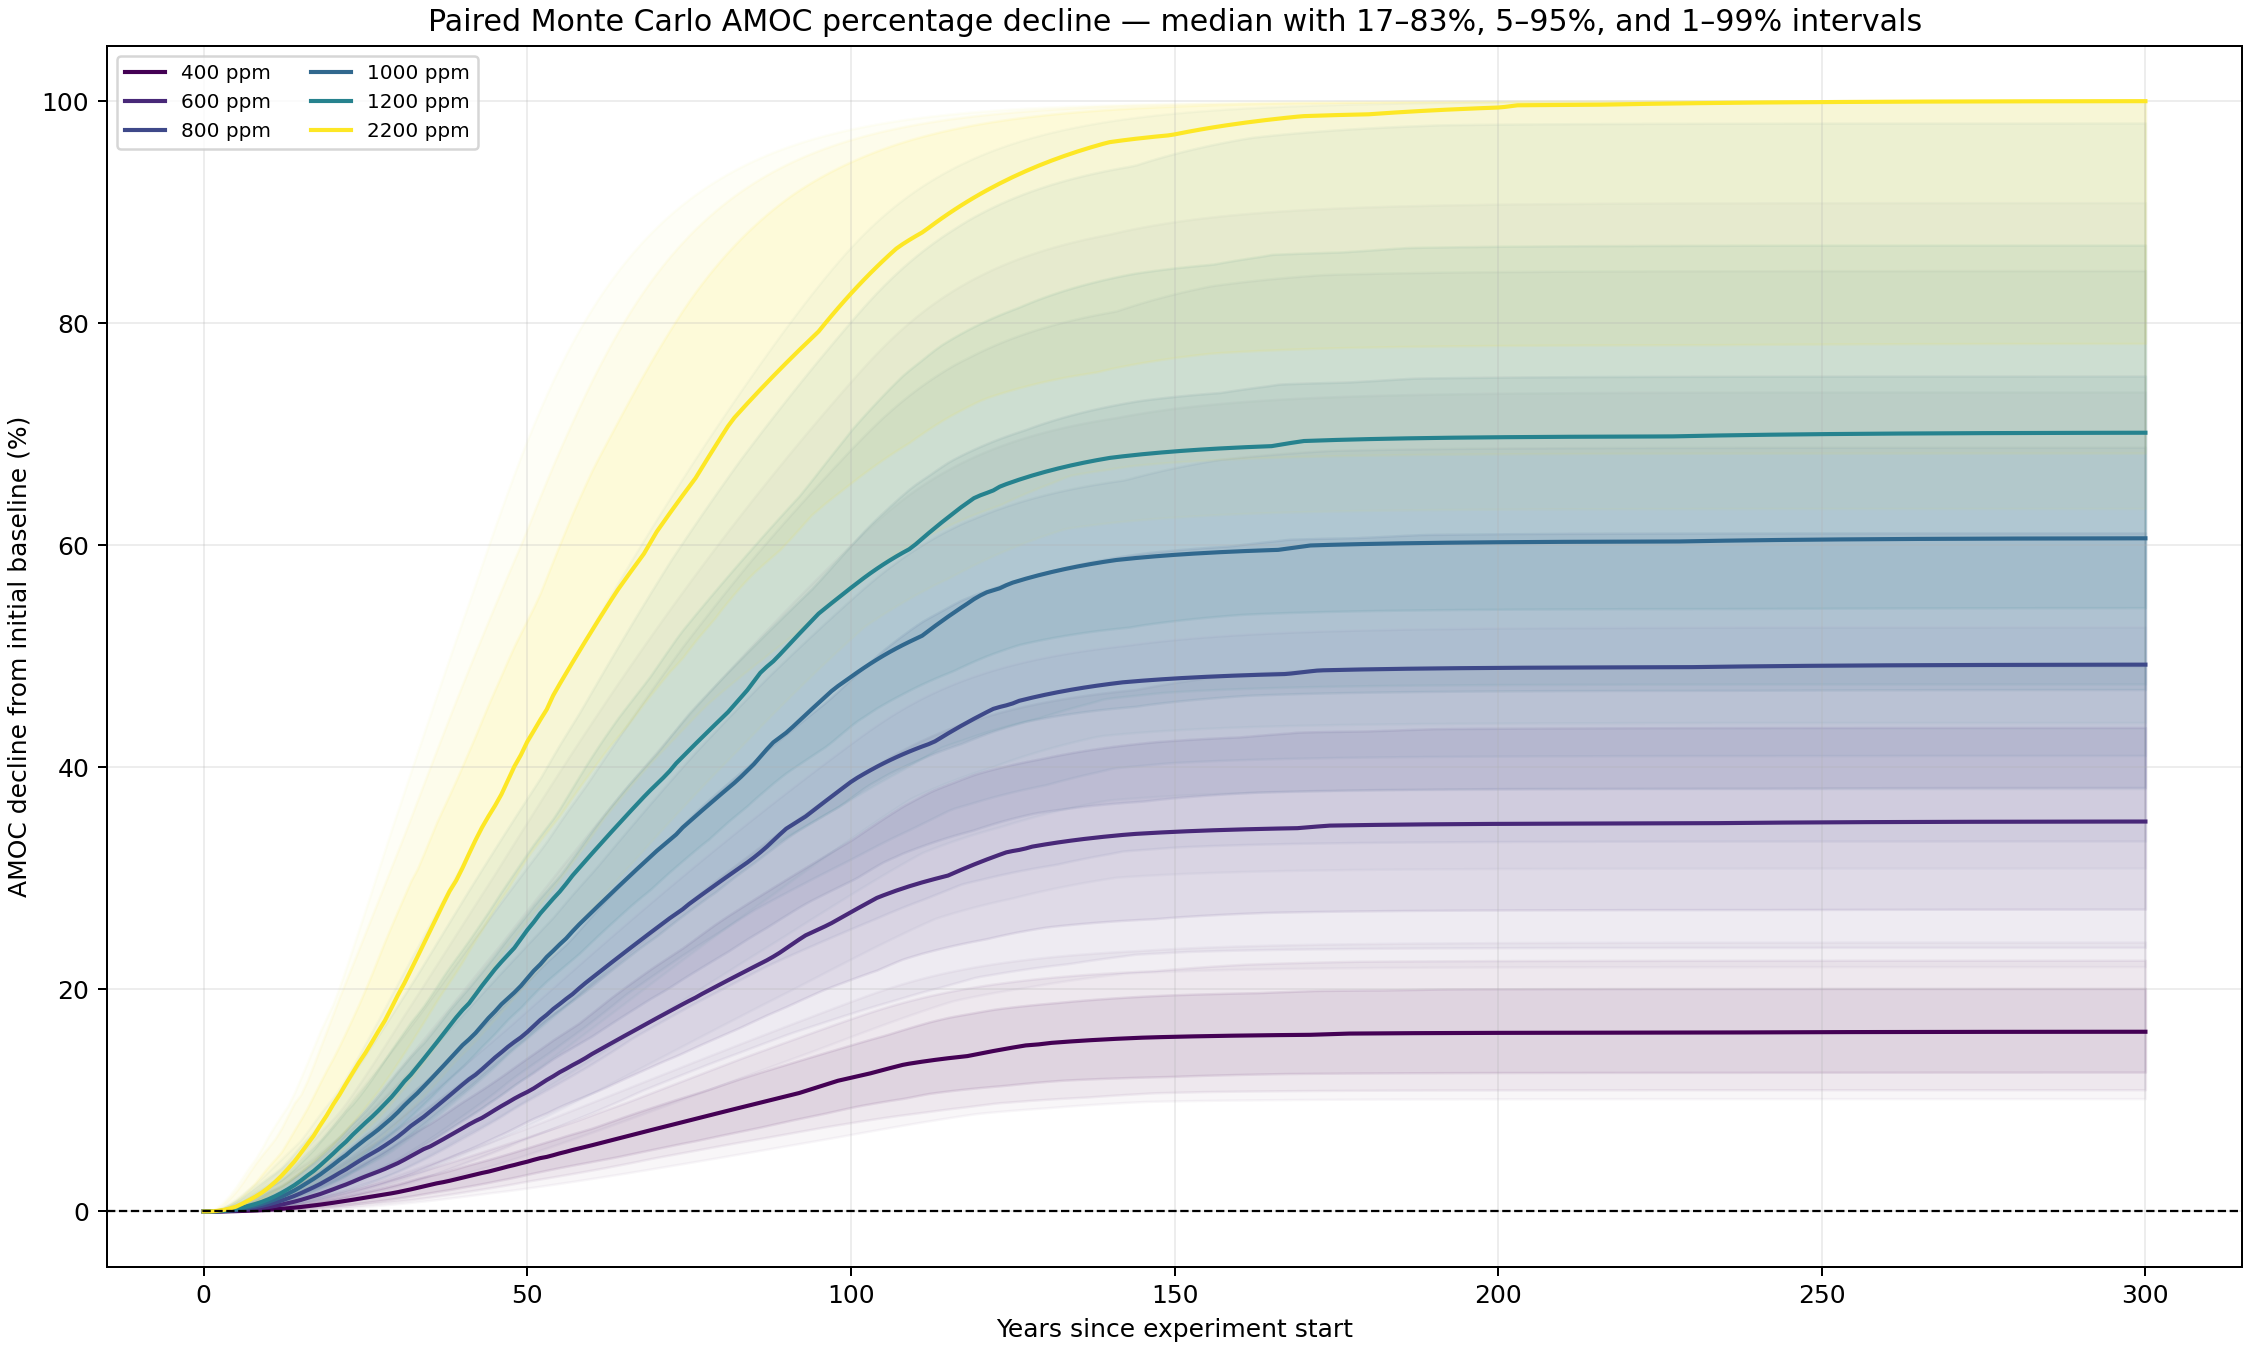
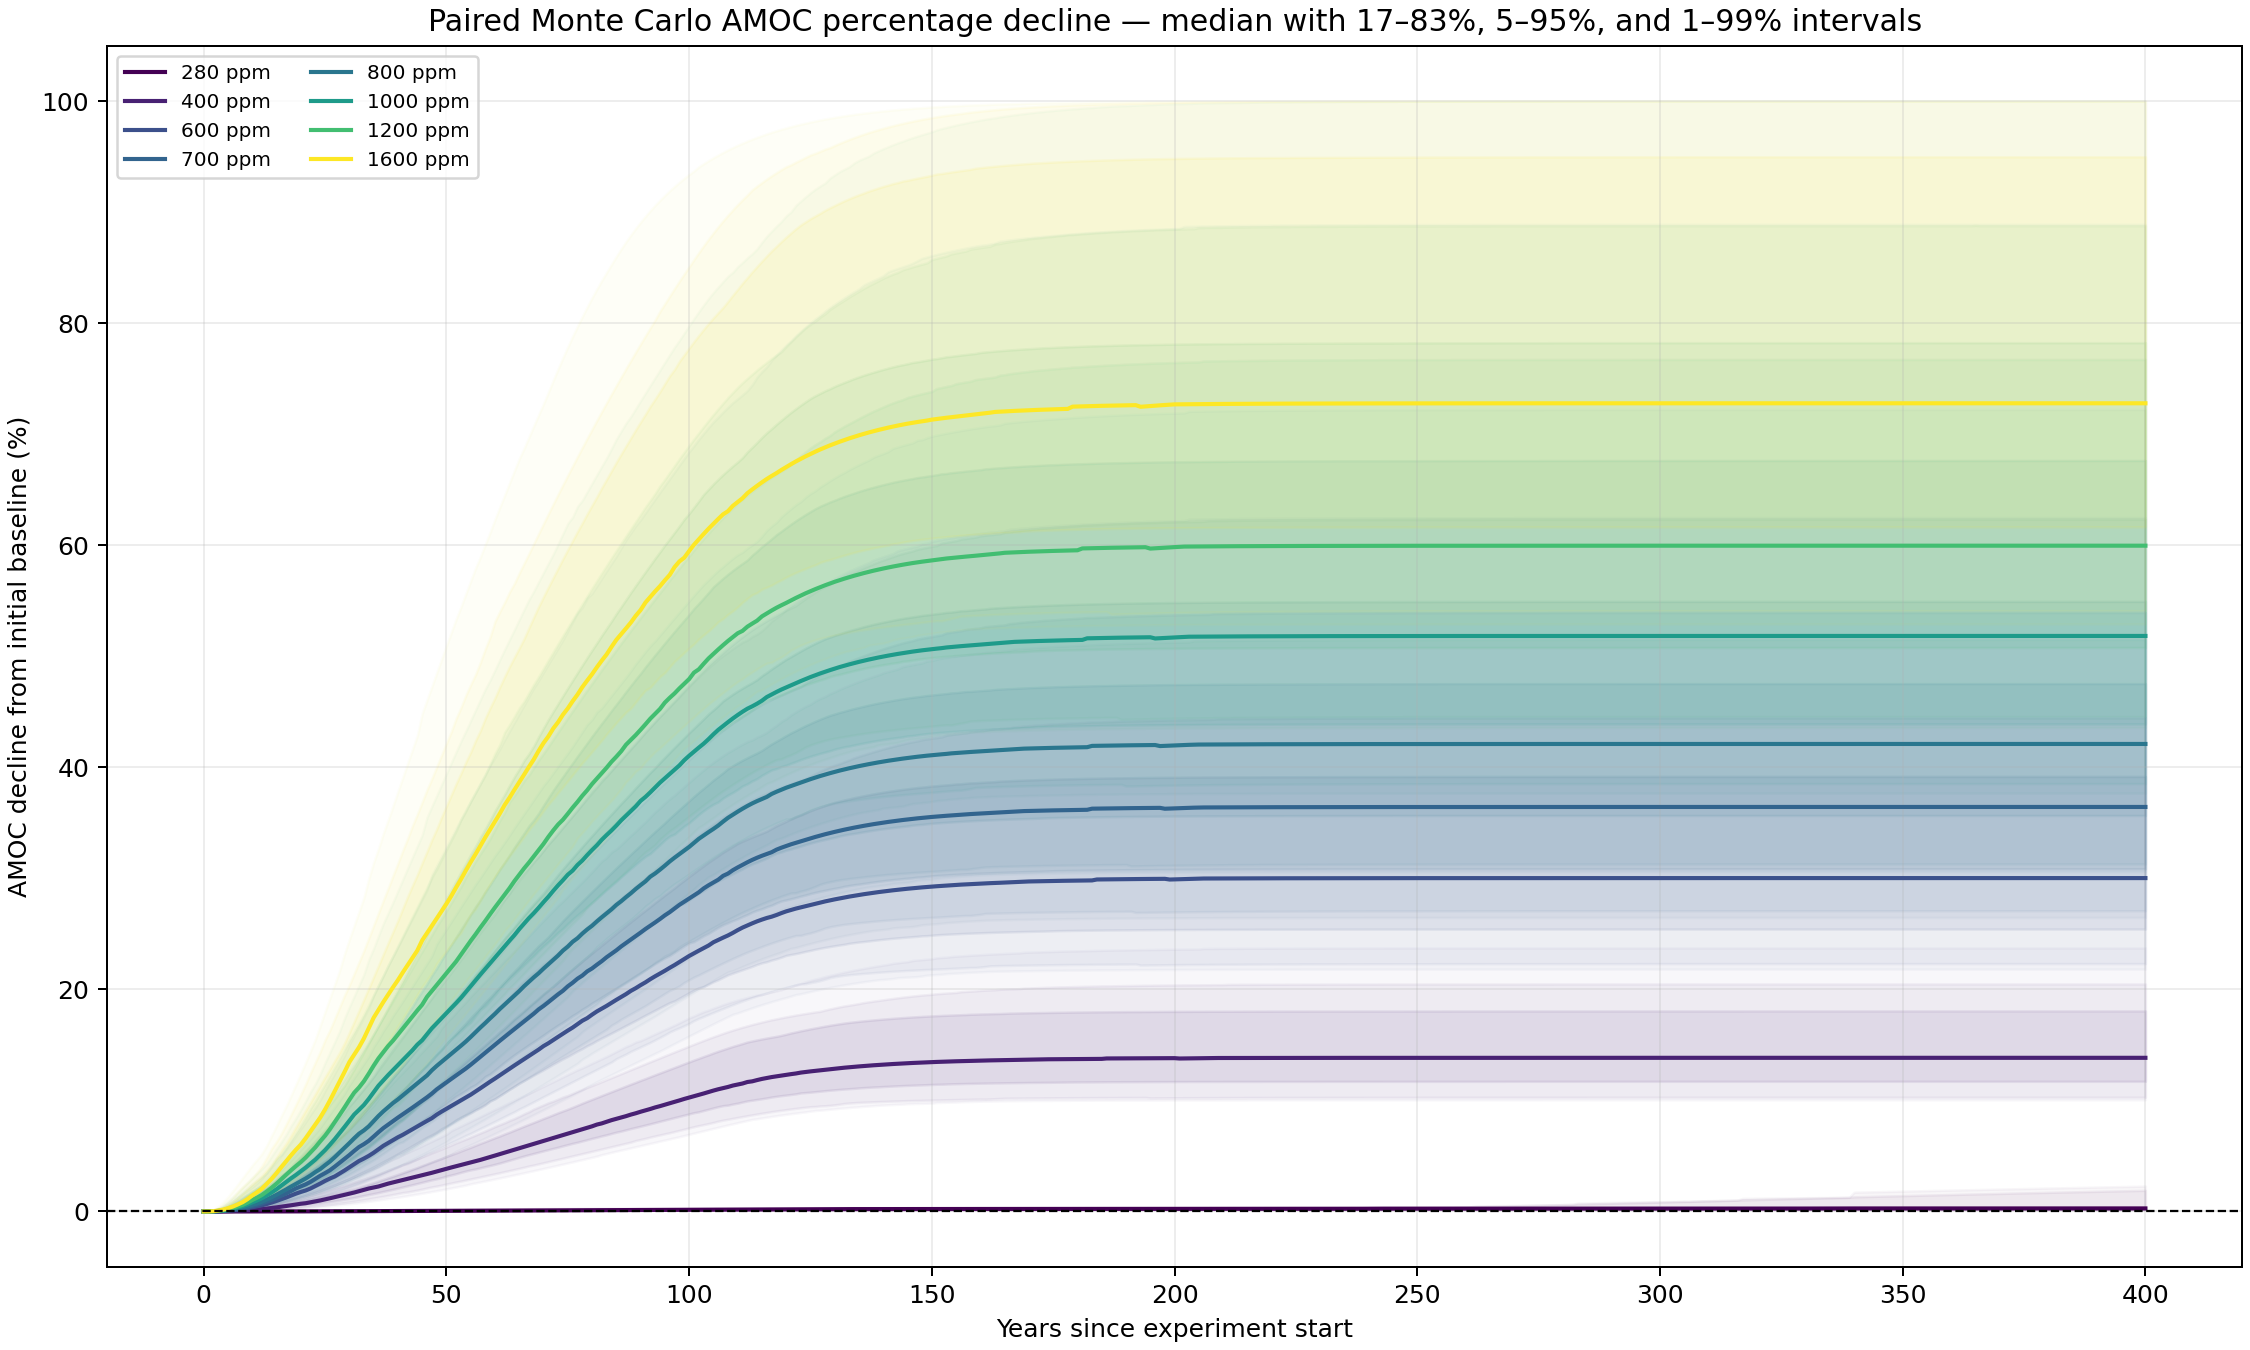
fix: track weighted AMOC sweep figures

diff --git a/README.md b/README.md
@@ -40,9 +40,9 @@ completed every target, giving a 96.68% survival fraction.
 | 1200 ppm | 40.829% | 63.957% | 59.956% | 44.572% to 88.761% | 42.927% to 100.000% |
 | 1600 ppm | 75.952% | 76.796% | 72.781% | 54.106% to 100.000% | 52.110% to 100.000% |
 
-![Weighted AMOC outcomes across eight CO2 targets](outputs_co2_target_sweep/co2_target_sweep_overview.png)
+![Weighted AMOC outcomes across eight CO2 targets](docs/assets/science_update_2026_09/co2_target_sweep_overview.png)
 
-![Weighted AMOC percentage decline trajectories across eight CO2 targets](outputs_co2_target_sweep/co2_target_sweep_amoc_percent_decline_trajectories.png)
+![Weighted AMOC percentage decline trajectories across eight CO2 targets](docs/assets/science_update_2026_09/co2_target_sweep_amoc_percent_decline_trajectories.png)
 
 Collapse requires AMOC below 6 Sv for at least 95% of the final 30 year window
 and no active recovery longer than 5 years. Peak decline is the largest percent
